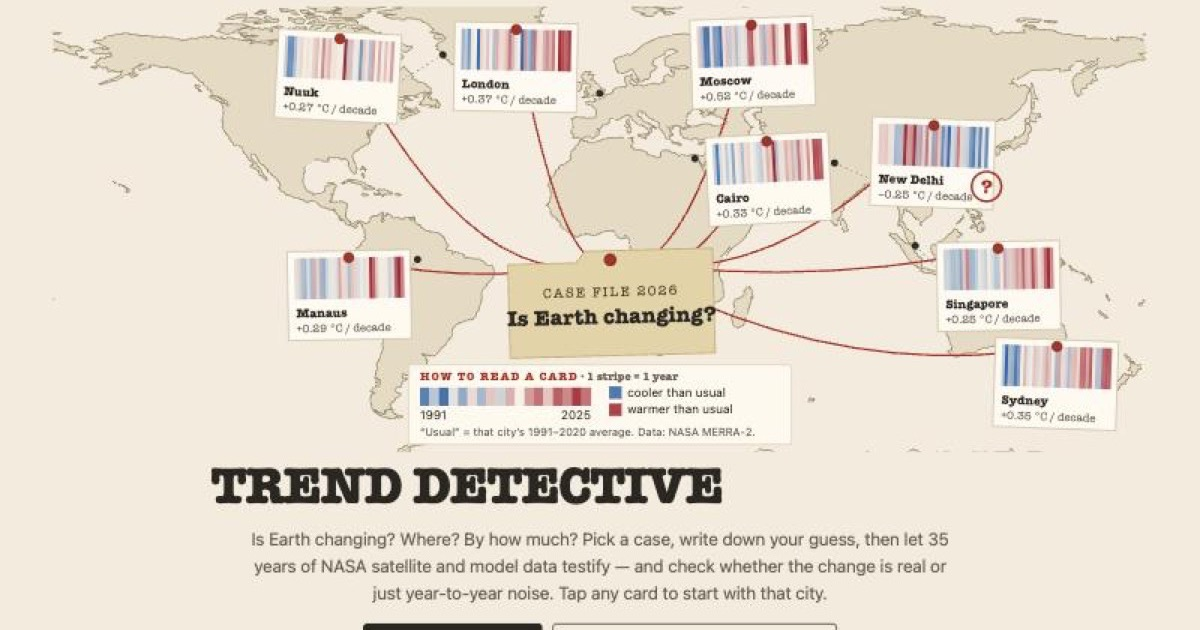
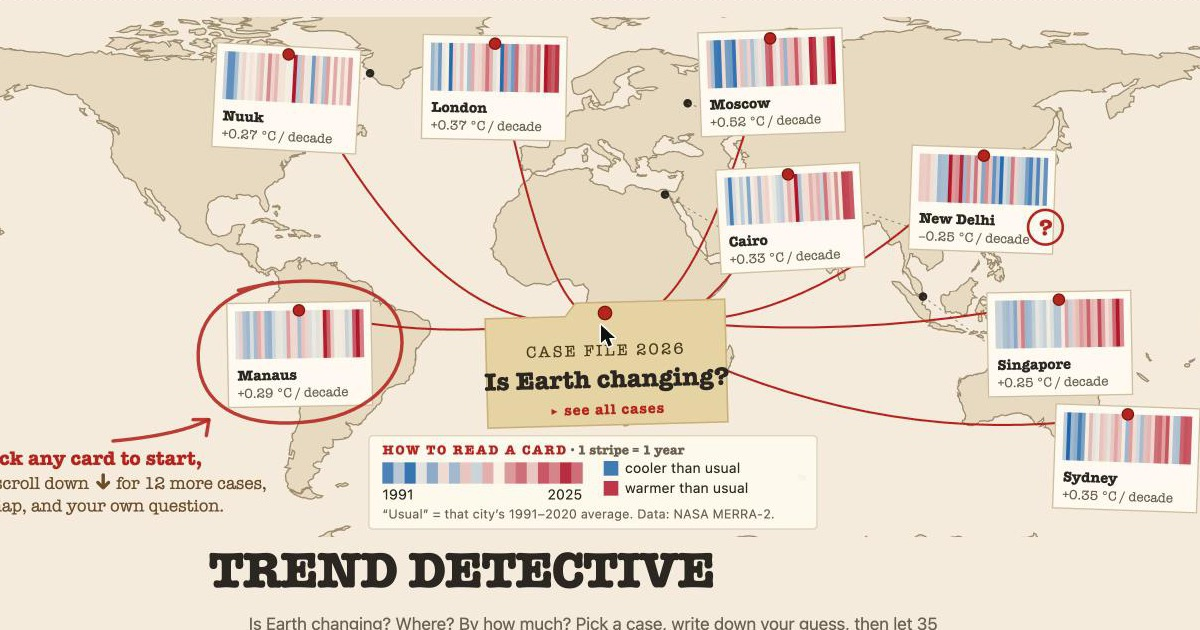
Remove unused mini-map code; phone ticket layout; fresh cover image
- Drop the mini-map option and its styles, and the old scroll-cue styles
- "Your case" buttons take a full row on phones
- og-image.jpg shows the current home page

diff --git a/styles.css b/styles.css
@@ -343,12 +343,7 @@ body { background: var(--bg); color: var(--ink); }
 .stamp-window { border-style: double; border-width: 4px; }
 .after .parts, .after .duel { clear: both; }
 
-/* Home: point to the cases, and say when data is loading */
-.scroll-cue { display: inline-flex; align-items: center; gap: 8px; margin-top: 14px; font-family: var(--type); font-weight: 700; color: var(--red); text-decoration: none; border-bottom: 2px dashed currentColor; padding-bottom: 2px; }
-.scroll-cue span { display: inline-block; animation: cueBob 1.6s ease-in-out infinite; }
-.scroll-cue:hover { border-bottom-style: solid; }
-@keyframes cueBob { 0%, 100% { transform: translateY(0); } 50% { transform: translateY(4px); } }
-@media (prefers-reduced-motion: reduce) { .scroll-cue span { animation: none; } }
+/* Home: say when data is loading */
 .load-status { margin: 12px 0 0; color: var(--muted); font-style: italic; }
 .load-status.error { color: var(--red); font-style: normal; }
 
@@ -408,25 +403,6 @@ body { background: var(--bg); color: var(--ink); }
 .ticket-btn u { font-weight: 400; font-size: .8rem; color: var(--red); font-family: var(--type); text-decoration: underline dotted; }
 .ticket-btn:hover { border-color: var(--red); }
 .now { margin: -6px 0 10px; font-size: .92rem; }
-/* Mini locator map in the "Your case" ticket */
-.ticket { align-items: stretch; gap: 14px; }
-.mini-wrap { flex: 0 0 230px; }
-.mini-map { width: 100%; height: auto; display: block; background: var(--sea); border-radius: 8px; border: 1px solid var(--line); }
-.mini-map .land { fill: var(--land); }
-.mini-map .pin { cursor: pointer; }
-.mini-map .pin .d { stroke: var(--panel); stroke-width: 7; }
-.mini-map .pin.up .d { fill: var(--up); } .mini-map .pin.down .d { fill: var(--down); } .mini-map .pin.unsure .d { fill: var(--unsure); }
-.mini-map .pin.na .d { fill: var(--panel); stroke: var(--unsure); }
-.mini-map .pin .ring { fill: none; stroke: var(--ink); stroke-width: 8; opacity: 0; }
-.mini-map .pin.on .ring { opacity: 1; }
-.mini-map .pin:hover .d { stroke: var(--ink); }
-.mini-cap { margin: 4px 0 0; font-family: var(--type); font-size: .78rem; color: var(--red); }
-.ticket-body { flex: 1 1 260px; display: flex; flex-direction: column; justify-content: center; gap: 8px; }
-.ticket-row { display: flex; flex-wrap: wrap; gap: 8px; }
-@media (max-width: 600px) { .mini-wrap { flex-basis: 100%; } }
-.mini-wrap { flex-basis: 280px; }
-.ticket-body { align-items: flex-start; }
-.mini-map .land { fill: color-mix(in srgb, var(--land) 85%, var(--ink)); }
 
 /* Step 2 holds both choices: place, then what to measure */
 .pick-part { padding: 4px 0 6px; border-radius: 14px; }
@@ -511,3 +487,4 @@ body { background: var(--bg); color: var(--ink); }
 .entry:not(#tourBtn):hover, .entry:not(#tourBtn):focus-visible { background: var(--ink); color: var(--panel); box-shadow: inset 0 0 0 2px var(--ink); }
 #tourBtn.entry:hover, #tourBtn.entry:focus-visible { background: var(--red); }
 #heroActions.flash { animation: flash 1.6s ease-out 2; border-radius: 8px; }
+@media (max-width: 600px) { .ticket-btn { width: 100%; justify-content: space-between; text-align: left; } }

diff --git a/src/map.js b/src/map.js
@@ -41,20 +41,17 @@ export async function loadLand() {
 }
 
 // sites: [{id, lon, lat, label, cls, on}]
-// opts.mini: small locator map (bigger dots, no labels, no grid) for the answer's case ticket.
-export function mapSvg(sites, opts = {}) {
-  const mini = !!opts.mini;
+export function mapSvg(sites) {
   let s = '';
-  if (!mini) for (let lon = -150; lon <= 150; lon += 30) { const [x] = px(lon, 0); s += `<line class="grat" x1="${x}" x2="${x}" y1="0" y2="${(TOP - BOTTOM) * K}"/>`; }
-  if (!mini) for (let lat = -60; lat <= 80; lat += 20) { const [, y] = px(0, lat); s += `<line class="grat" x1="0" x2="${W}" y1="${y}" y2="${y}"/>`; }
+  for (let lon = -150; lon <= 150; lon += 30) { const [x] = px(lon, 0); s += `<line class="grat" x1="${x}" x2="${x}" y1="0" y2="${(TOP - BOTTOM) * K}"/>`; }
+  for (let lat = -60; lat <= 80; lat += 20) { const [, y] = px(0, lat); s += `<line class="grat" x1="0" x2="${W}" y1="${y}" y2="${y}"/>`; }
   if (landD) s += `<path class="land" d="${landD}"/>`;
   sites.forEach(p => {
     const [x, y] = px(p.lon, p.lat);
     const right = x < W - 150;
-    const rd = mini ? 26 : 8, rr = mini ? 44 : 13;
     s += `<g class="pin ${p.cls}${p.on ? ' on' : ''}" data-site="${p.id}" tabindex="0" role="button" aria-label="${p.label}"><title>${p.label}</title>
-      <circle class="ring" cx="${x.toFixed(1)}" cy="${y.toFixed(1)}" r="${rr}"/><circle class="d" cx="${x.toFixed(1)}" cy="${y.toFixed(1)}" r="${rd}"/>
-      ${mini ? '' : `<text x="${(right ? x + 14 : x - 14).toFixed(1)}" y="${(y + 4).toFixed(1)}" text-anchor="${right ? 'start' : 'end'}">${p.label}</text>`}</g>`;
+      <circle class="ring" cx="${x.toFixed(1)}" cy="${y.toFixed(1)}" r="13"/><circle class="d" cx="${x.toFixed(1)}" cy="${y.toFixed(1)}" r="8"/>
+      <text x="${(right ? x + 14 : x - 14).toFixed(1)}" y="${(y + 4).toFixed(1)}" text-anchor="${right ? 'start' : 'end'}">${p.label}</text></g>`;
   });
   return s;
 }

diff --git a/index.html b/index.html
@@ -18,7 +18,7 @@
 <meta property="og:image:height" content="630">
 <meta property="og:image:alt" content="Trend Detective case wall: eight cities with temperature stripes pinned to one case file">
 <meta name="twitter:card" content="summary_large_image">
-<link rel="stylesheet" href="styles.css?v=20261115y">
+<link rel="stylesheet" href="styles.css?v=20261116a">
 </head>
 <body>
 <header class="top">
@@ -108,6 +108,6 @@
 </div>
 
 <script src="vendor/topojson-client.min.js"></script>
-<script type="module" src="src/app.js?v=20261115y"></script>
+<script type="module" src="src/app.js?v=20261116a"></script>
 </body>
 </html>
